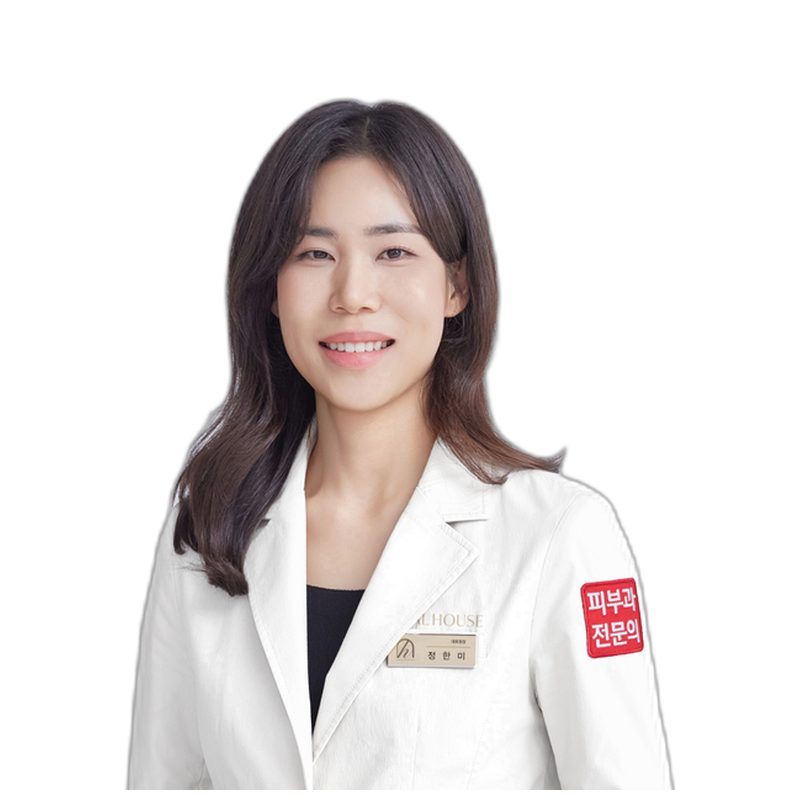
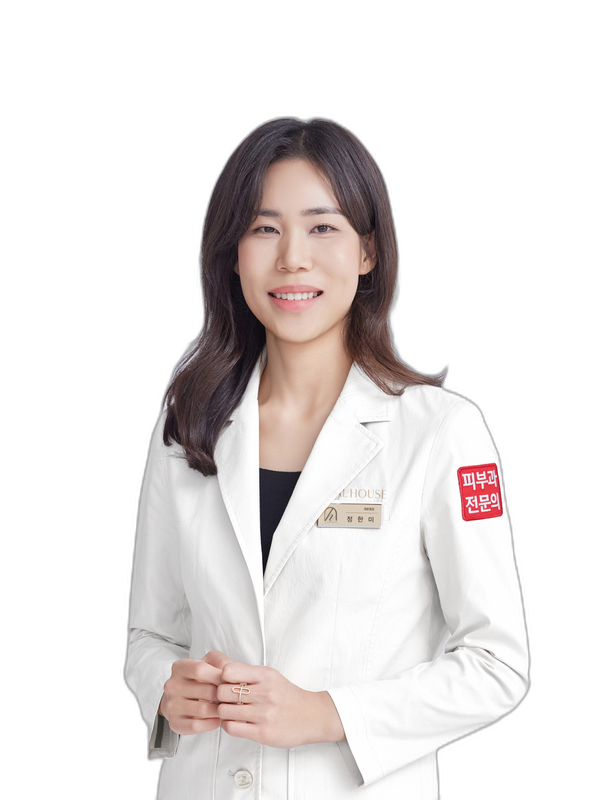
사용자가 직접 크롭한 사진으로 누끼 재생성
- 회원 프로필 사진_크롭 폴더의 사용자 크롭본 사용 (3:4 portrait 통일)
- 자동 정규화 없이 사용자 크롭 그대로 누끼만 처리
- 두 사진 보유 의사: 비율과 인물 위치 일관성 확보
- 김남우 제외

diff --git a/clinic/foret/index.html b/clinic/foret/index.html
@@ -23,7 +23,7 @@
   <link href="https://fonts.googleapis.com/css2?family=Noto+Sans+KR:wght@300;400;500;600;700;800&display=swap" rel="stylesheet">
   <link rel="stylesheet" href="https://unpkg.com/leaflet@1.9.4/dist/leaflet.css" />
   <link rel="stylesheet" href="https://cdnjs.cloudflare.com/ajax/libs/font-awesome/6.5.1/css/all.min.css" />
-  <link rel="stylesheet" href="css/style.css?v=20260501i">
+  <link rel="stylesheet" href="css/style.css?v=20260501j">
 </head>
 <body>
   <!-- Navigation -->
@@ -57,6 +57,6 @@
   </footer>
 
   <script src="https://unpkg.com/leaflet@1.9.4/dist/leaflet.js"></script>
-  <script src="js/app.js?v=20260501i"></script>
+  <script src="js/app.js?v=20260501j"></script>
 </body>
 </html>

diff --git a/clinic/healhouse-gangnam/index.html b/clinic/healhouse-gangnam/index.html
@@ -23,7 +23,7 @@
   <link href="https://fonts.googleapis.com/css2?family=Noto+Sans+KR:wght@300;400;500;600;700;800&display=swap" rel="stylesheet">
   <link rel="stylesheet" href="https://unpkg.com/leaflet@1.9.4/dist/leaflet.css" />
   <link rel="stylesheet" href="https://cdnjs.cloudflare.com/ajax/libs/font-awesome/6.5.1/css/all.min.css" />
-  <link rel="stylesheet" href="css/style.css?v=20260501i">
+  <link rel="stylesheet" href="css/style.css?v=20260501j">
 </head>
 <body>
   <!-- Navigation -->
@@ -57,6 +57,6 @@
   </footer>
 
   <script src="https://unpkg.com/leaflet@1.9.4/dist/leaflet.js"></script>
-  <script src="js/app.js?v=20260501i"></script>
+  <script src="js/app.js?v=20260501j"></script>
 </body>
 </html>

diff --git a/clinic/hev-sinsa/index.html b/clinic/hev-sinsa/index.html
@@ -23,7 +23,7 @@
   <link href="https://fonts.googleapis.com/css2?family=Noto+Sans+KR:wght@300;400;500;600;700;800&display=swap" rel="stylesheet">
   <link rel="stylesheet" href="https://unpkg.com/leaflet@1.9.4/dist/leaflet.css" />
   <link rel="stylesheet" href="https://cdnjs.cloudflare.com/ajax/libs/font-awesome/6.5.1/css/all.min.css" />
-  <link rel="stylesheet" href="css/style.css?v=20260501i">
+  <link rel="stylesheet" href="css/style.css?v=20260501j">
 </head>
 <body>
   <!-- Navigation -->
@@ -57,6 +57,6 @@
   </footer>
 
   <script src="https://unpkg.com/leaflet@1.9.4/dist/leaflet.js"></script>
-  <script src="js/app.js?v=20260501i"></script>
+  <script src="js/app.js?v=20260501j"></script>
 </body>
 </html>

diff --git a/clinic/human-pyeongtaek/index.html b/clinic/human-pyeongtaek/index.html
@@ -23,7 +23,7 @@
   <link href="https://fonts.googleapis.com/css2?family=Noto+Sans+KR:wght@300;400;500;600;700;800&display=swap" rel="stylesheet">
   <link rel="stylesheet" href="https://unpkg.com/leaflet@1.9.4/dist/leaflet.css" />
   <link rel="stylesheet" href="https://cdnjs.cloudflare.com/ajax/libs/font-awesome/6.5.1/css/all.min.css" />
-  <link rel="stylesheet" href="css/style.css?v=20260501i">
+  <link rel="stylesheet" href="css/style.css?v=20260501j">
 </head>
 <body>
   <!-- Navigation -->
@@ -57,6 +57,6 @@
   </footer>
 
   <script src="https://unpkg.com/leaflet@1.9.4/dist/leaflet.js"></script>
-  <script src="js/app.js?v=20260501i"></script>
+  <script src="js/app.js?v=20260501j"></script>
 </body>
 </html>

diff --git a/clinic/vos/index.html b/clinic/vos/index.html
@@ -23,7 +23,7 @@
   <link href="https://fonts.googleapis.com/css2?family=Noto+Sans+KR:wght@300;400;500;600;700;800&display=swap" rel="stylesheet">
   <link rel="stylesheet" href="https://unpkg.com/leaflet@1.9.4/dist/leaflet.css" />
   <link rel="stylesheet" href="https://cdnjs.cloudflare.com/ajax/libs/font-awesome/6.5.1/css/all.min.css" />
-  <link rel="stylesheet" href="css/style.css?v=20260501i">
+  <link rel="stylesheet" href="css/style.css?v=20260501j">
 </head>
 <body>
   <!-- Navigation -->
@@ -57,6 +57,6 @@
   </footer>
 
   <script src="https://unpkg.com/leaflet@1.9.4/dist/leaflet.js"></script>
-  <script src="js/app.js?v=20260501i"></script>
+  <script src="js/app.js?v=20260501j"></script>
 </body>
 </html>

diff --git a/dermatologist/bae-jungmin/index.html b/dermatologist/bae-jungmin/index.html
@@ -23,7 +23,7 @@
   <link href="https://fonts.googleapis.com/css2?family=Noto+Sans+KR:wght@300;400;500;600;700;800&display=swap" rel="stylesheet">
   <link rel="stylesheet" href="https://unpkg.com/leaflet@1.9.4/dist/leaflet.css" />
   <link rel="stylesheet" href="https://cdnjs.cloudflare.com/ajax/libs/font-awesome/6.5.1/css/all.min.css" />
-  <link rel="stylesheet" href="css/style.css?v=20260501i">
+  <link rel="stylesheet" href="css/style.css?v=20260501j">
 </head>
 <body>
   <!-- Navigation -->
@@ -57,6 +57,6 @@
   </footer>
 
   <script src="https://unpkg.com/leaflet@1.9.4/dist/leaflet.js"></script>
-  <script src="js/app.js?v=20260501i"></script>
+  <script src="js/app.js?v=20260501j"></script>
 </body>
 </html>

diff --git a/dermatologist/gye-jiwon/index.html b/dermatologist/gye-jiwon/index.html
@@ -23,7 +23,7 @@
   <link href="https://fonts.googleapis.com/css2?family=Noto+Sans+KR:wght@300;400;500;600;700;800&display=swap" rel="stylesheet">
   <link rel="stylesheet" href="https://unpkg.com/leaflet@1.9.4/dist/leaflet.css" />
   <link rel="stylesheet" href="https://cdnjs.cloudflare.com/ajax/libs/font-awesome/6.5.1/css/all.min.css" />
-  <link rel="stylesheet" href="css/style.css?v=20260501i">
+  <link rel="stylesheet" href="css/style.css?v=20260501j">
 </head>
 <body>
   <!-- Navigation -->
@@ -57,6 +57,6 @@
   </footer>
 
   <script src="https://unpkg.com/leaflet@1.9.4/dist/leaflet.js"></script>
-  <script src="js/app.js?v=20260501i"></script>
+  <script src="js/app.js?v=20260501j"></script>
 </body>
 </html>

diff --git a/dermatologist/jung-hanmi/index.html b/dermatologist/jung-hanmi/index.html
@@ -23,7 +23,7 @@
   <link href="https://fonts.googleapis.com/css2?family=Noto+Sans+KR:wght@300;400;500;600;700;800&display=swap" rel="stylesheet">
   <link rel="stylesheet" href="https://unpkg.com/leaflet@1.9.4/dist/leaflet.css" />
   <link rel="stylesheet" href="https://cdnjs.cloudflare.com/ajax/libs/font-awesome/6.5.1/css/all.min.css" />
-  <link rel="stylesheet" href="css/style.css?v=20260501i">
+  <link rel="stylesheet" href="css/style.css?v=20260501j">
 </head>
 <body>
   <!-- Navigation -->
@@ -57,6 +57,6 @@
   </footer>
 
   <script src="https://unpkg.com/leaflet@1.9.4/dist/leaflet.js"></script>
-  <script src="js/app.js?v=20260501i"></script>
+  <script src="js/app.js?v=20260501j"></script>
 </body>
 </html>

diff --git a/dermatologist/jung-jongheon/index.html b/dermatologist/jung-jongheon/index.html
@@ -23,7 +23,7 @@
   <link href="https://fonts.googleapis.com/css2?family=Noto+Sans+KR:wght@300;400;500;600;700;800&display=swap" rel="stylesheet">
   <link rel="stylesheet" href="https://unpkg.com/leaflet@1.9.4/dist/leaflet.css" />
   <link rel="stylesheet" href="https://cdnjs.cloudflare.com/ajax/libs/font-awesome/6.5.1/css/all.min.css" />
-  <link rel="stylesheet" href="css/style.css?v=20260501i">
+  <link rel="stylesheet" href="css/style.css?v=20260501j">
 </head>
 <body>
   <!-- Navigation -->
@@ -57,6 +57,6 @@
   </footer>
 
   <script src="https://unpkg.com/leaflet@1.9.4/dist/leaflet.js"></script>
-  <script src="js/app.js?v=20260501i"></script>
+  <script src="js/app.js?v=20260501j"></script>
 </body>
 </html>

diff --git a/dermatologist/kim-hongseok/index.html b/dermatologist/kim-hongseok/index.html
@@ -23,7 +23,7 @@
   <link href="https://fonts.googleapis.com/css2?family=Noto+Sans+KR:wght@300;400;500;600;700;800&display=swap" rel="stylesheet">
   <link rel="stylesheet" href="https://unpkg.com/leaflet@1.9.4/dist/leaflet.css" />
   <link rel="stylesheet" href="https://cdnjs.cloudflare.com/ajax/libs/font-awesome/6.5.1/css/all.min.css" />
-  <link rel="stylesheet" href="css/style.css?v=20260501i">
+  <link rel="stylesheet" href="css/style.css?v=20260501j">
 </head>
 <body>
   <!-- Navigation -->
@@ -57,6 +57,6 @@
   </footer>
 
   <script src="https://unpkg.com/leaflet@1.9.4/dist/leaflet.js"></script>
-  <script src="js/app.js?v=20260501i"></script>
+  <script src="js/app.js?v=20260501j"></script>
 </body>
 </html>

diff --git a/dermatologist/lee-haeun/index.html b/dermatologist/lee-haeun/index.html
@@ -23,7 +23,7 @@
   <link href="https://fonts.googleapis.com/css2?family=Noto+Sans+KR:wght@300;400;500;600;700;800&display=swap" rel="stylesheet">
   <link rel="stylesheet" href="https://unpkg.com/leaflet@1.9.4/dist/leaflet.css" />
   <link rel="stylesheet" href="https://cdnjs.cloudflare.com/ajax/libs/font-awesome/6.5.1/css/all.min.css" />
-  <link rel="stylesheet" href="css/style.css?v=20260501i">
+  <link rel="stylesheet" href="css/style.css?v=20260501j">
 </head>
 <body>
   <!-- Navigation -->
@@ -57,6 +57,6 @@
   </footer>
 
   <script src="https://unpkg.com/leaflet@1.9.4/dist/leaflet.js"></script>
-  <script src="js/app.js?v=20260501i"></script>
+  <script src="js/app.js?v=20260501j"></script>
 </body>
 </html>

diff --git a/dermatologist/lee-seolhee/index.html b/dermatologist/lee-seolhee/index.html
@@ -23,7 +23,7 @@
   <link href="https://fonts.googleapis.com/css2?family=Noto+Sans+KR:wght@300;400;500;600;700;800&display=swap" rel="stylesheet">
   <link rel="stylesheet" href="https://unpkg.com/leaflet@1.9.4/dist/leaflet.css" />
   <link rel="stylesheet" href="https://cdnjs.cloudflare.com/ajax/libs/font-awesome/6.5.1/css/all.min.css" />
-  <link rel="stylesheet" href="css/style.css?v=20260501i">
+  <link rel="stylesheet" href="css/style.css?v=20260501j">
 </head>
 <body>
   <!-- Navigation -->
@@ -57,6 +57,6 @@
   </footer>
 
   <script src="https://unpkg.com/leaflet@1.9.4/dist/leaflet.js"></script>
-  <script src="js/app.js?v=20260501i"></script>
+  <script src="js/app.js?v=20260501j"></script>
 </body>
 </html>
